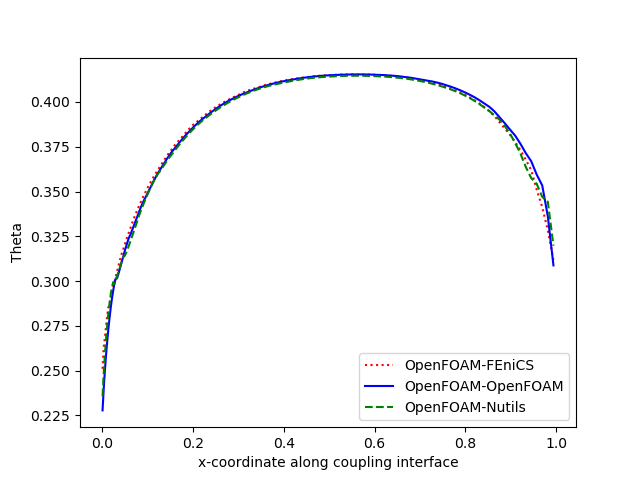
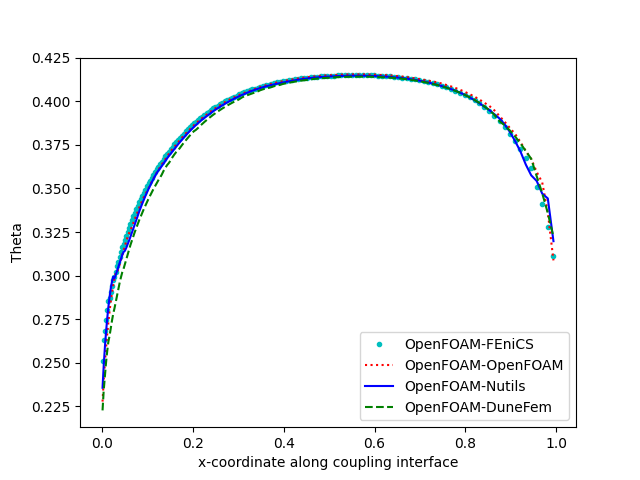
Fixed the heat flux in the Dune-Fem solver, updated the README and Figures.

diff --git a/flow-over-heated-plate/solid-dunefem/solid.py b/flow-over-heated-plate/solid-dunefem/solid.py
@@ -57,7 +57,7 @@ if __name__ == '__main__':
     unew = space.interpolate(u0, name='unew')
     ucheckpoint = uold.copy(name='u_checkpoint')
 
-    # creating top boundary condition with data from the fluid
+    # creating boundary condition with data from the fluid
 
     ug_interp = interp1d(interface_x_coordinates, np.zeros(nx + 1))
     def ug_f(x): return ug_interp(x[0])
@@ -79,19 +79,15 @@ if __name__ == '__main__':
 
     scheme = solutionScheme([A == b, *bcs], solver='cg')
 
-    # Setting up the weak form of the flux
-    # Inspired from kamenskys answer here:
-    # https://fenicsproject.discourse.group/t/compute-gradient-of-scalar-field-on-boundarymesh/1172
-    consistency_term = (ufl.conditional(x[0] < eps, 1, 0) + ufl.conditional(x[0] >
-                                                                            1 - eps, 1, 0)) * k * ufl.inner(ufl.grad(u), n) * v * ufl.ds
-    flux_expr = (u - uold) * v / dt * ufl.dx + k * ufl.dot(ufl.grad(u), ufl.grad(v)) * ufl.dx - consistency_term
-
-    flux_expr_operator = galerkin(-flux_expr)
+    # Weak form of the flux
+    flux_expr = -(u - uold) * v / dt * ufl.dx - k * ufl.dot(ufl.grad(u), ufl.grad(v)) * ufl.dx
+    flux_expr_operator = galerkin(flux_expr)
     flux_sol = space.interpolate(u0, name='flux_sol')
 
+    # Sample the flux on the top edge
     flux_sol_expr = expression2GF(flux_sol.space.grid, flux_sol, flux_sol.space.order)
     sampler_weak_flux = Sampler(flux_sol_expr)
-    def flux_f_weak(): return sampler_weak_flux.lineSample([0., 0.], [1., 0.], nx + 1)[1]
+    def flux_f_weak(): return sampler_weak_flux.lineSample([0., 0.], [1., 0.], nx + 1)[1] * nx
 
     if not os.path.exists("output"):
         os.makedirs("output")
@@ -104,10 +100,9 @@ if __name__ == '__main__':
 
     while interface.is_coupling_ongoing():
 
-        if interface.is_action_required(precice.action_write_iteration_checkpoint()):  # write checkpoint and outfile
+        if interface.is_action_required(precice.action_write_iteration_checkpoint()):  # write checkpoint
             t_check = t
             ucheckpoint.assign(uold)
-            vtk()
             interface.mark_action_fulfilled(precice.action_write_iteration_checkpoint())
 
         ug = interface.read_block_scalar_data(temperature_id, vertex_ids)
@@ -118,7 +113,7 @@ if __name__ == '__main__':
 
         # compute flux, solution goes into flux_sol
         flux_expr_operator(unew, flux_sol)
-        flux_values = flux_f_weak() * nx
+        flux_values = flux_f_weak()  # sample the flux function
 
         interface.write_block_scalar_data(flux_id, vertex_ids, flux_values)
 
@@ -134,5 +129,11 @@ if __name__ == '__main__':
 
             uold.assign(unew)
             t += float(dt)
+
+        if precice.is_time_window_complete():
+            tol = 10e-5  # we need some tolerance, since otherwise output might be skipped.
+            if abs((t + tol) % dt_out) < 2 * tol:  # output if t is a multiple of dt_out
+                print("output vtk for time = {}".format(float(t)))
+                vtk()
 
     interface.finalize()

diff --git a/flow-over-heated-plate/README.md b/flow-over-heated-plate/README.md
@@ -35,6 +35,8 @@ Solid participant:
 
 * Nutils. For more information, have a look at the [Nutils adapter documentation](https://precice.org/adapter-nutils.html).
 
+* Dune-Fem using the python bindings for both Dune-Fem and preCICE
+
 ## Running the Simulation
 
 All listed solvers can be used in order to run the simulation. Open two separate terminals and start the desired fluid and solid participant by calling the respective run script `run.sh` located in the participant directory. For example:
